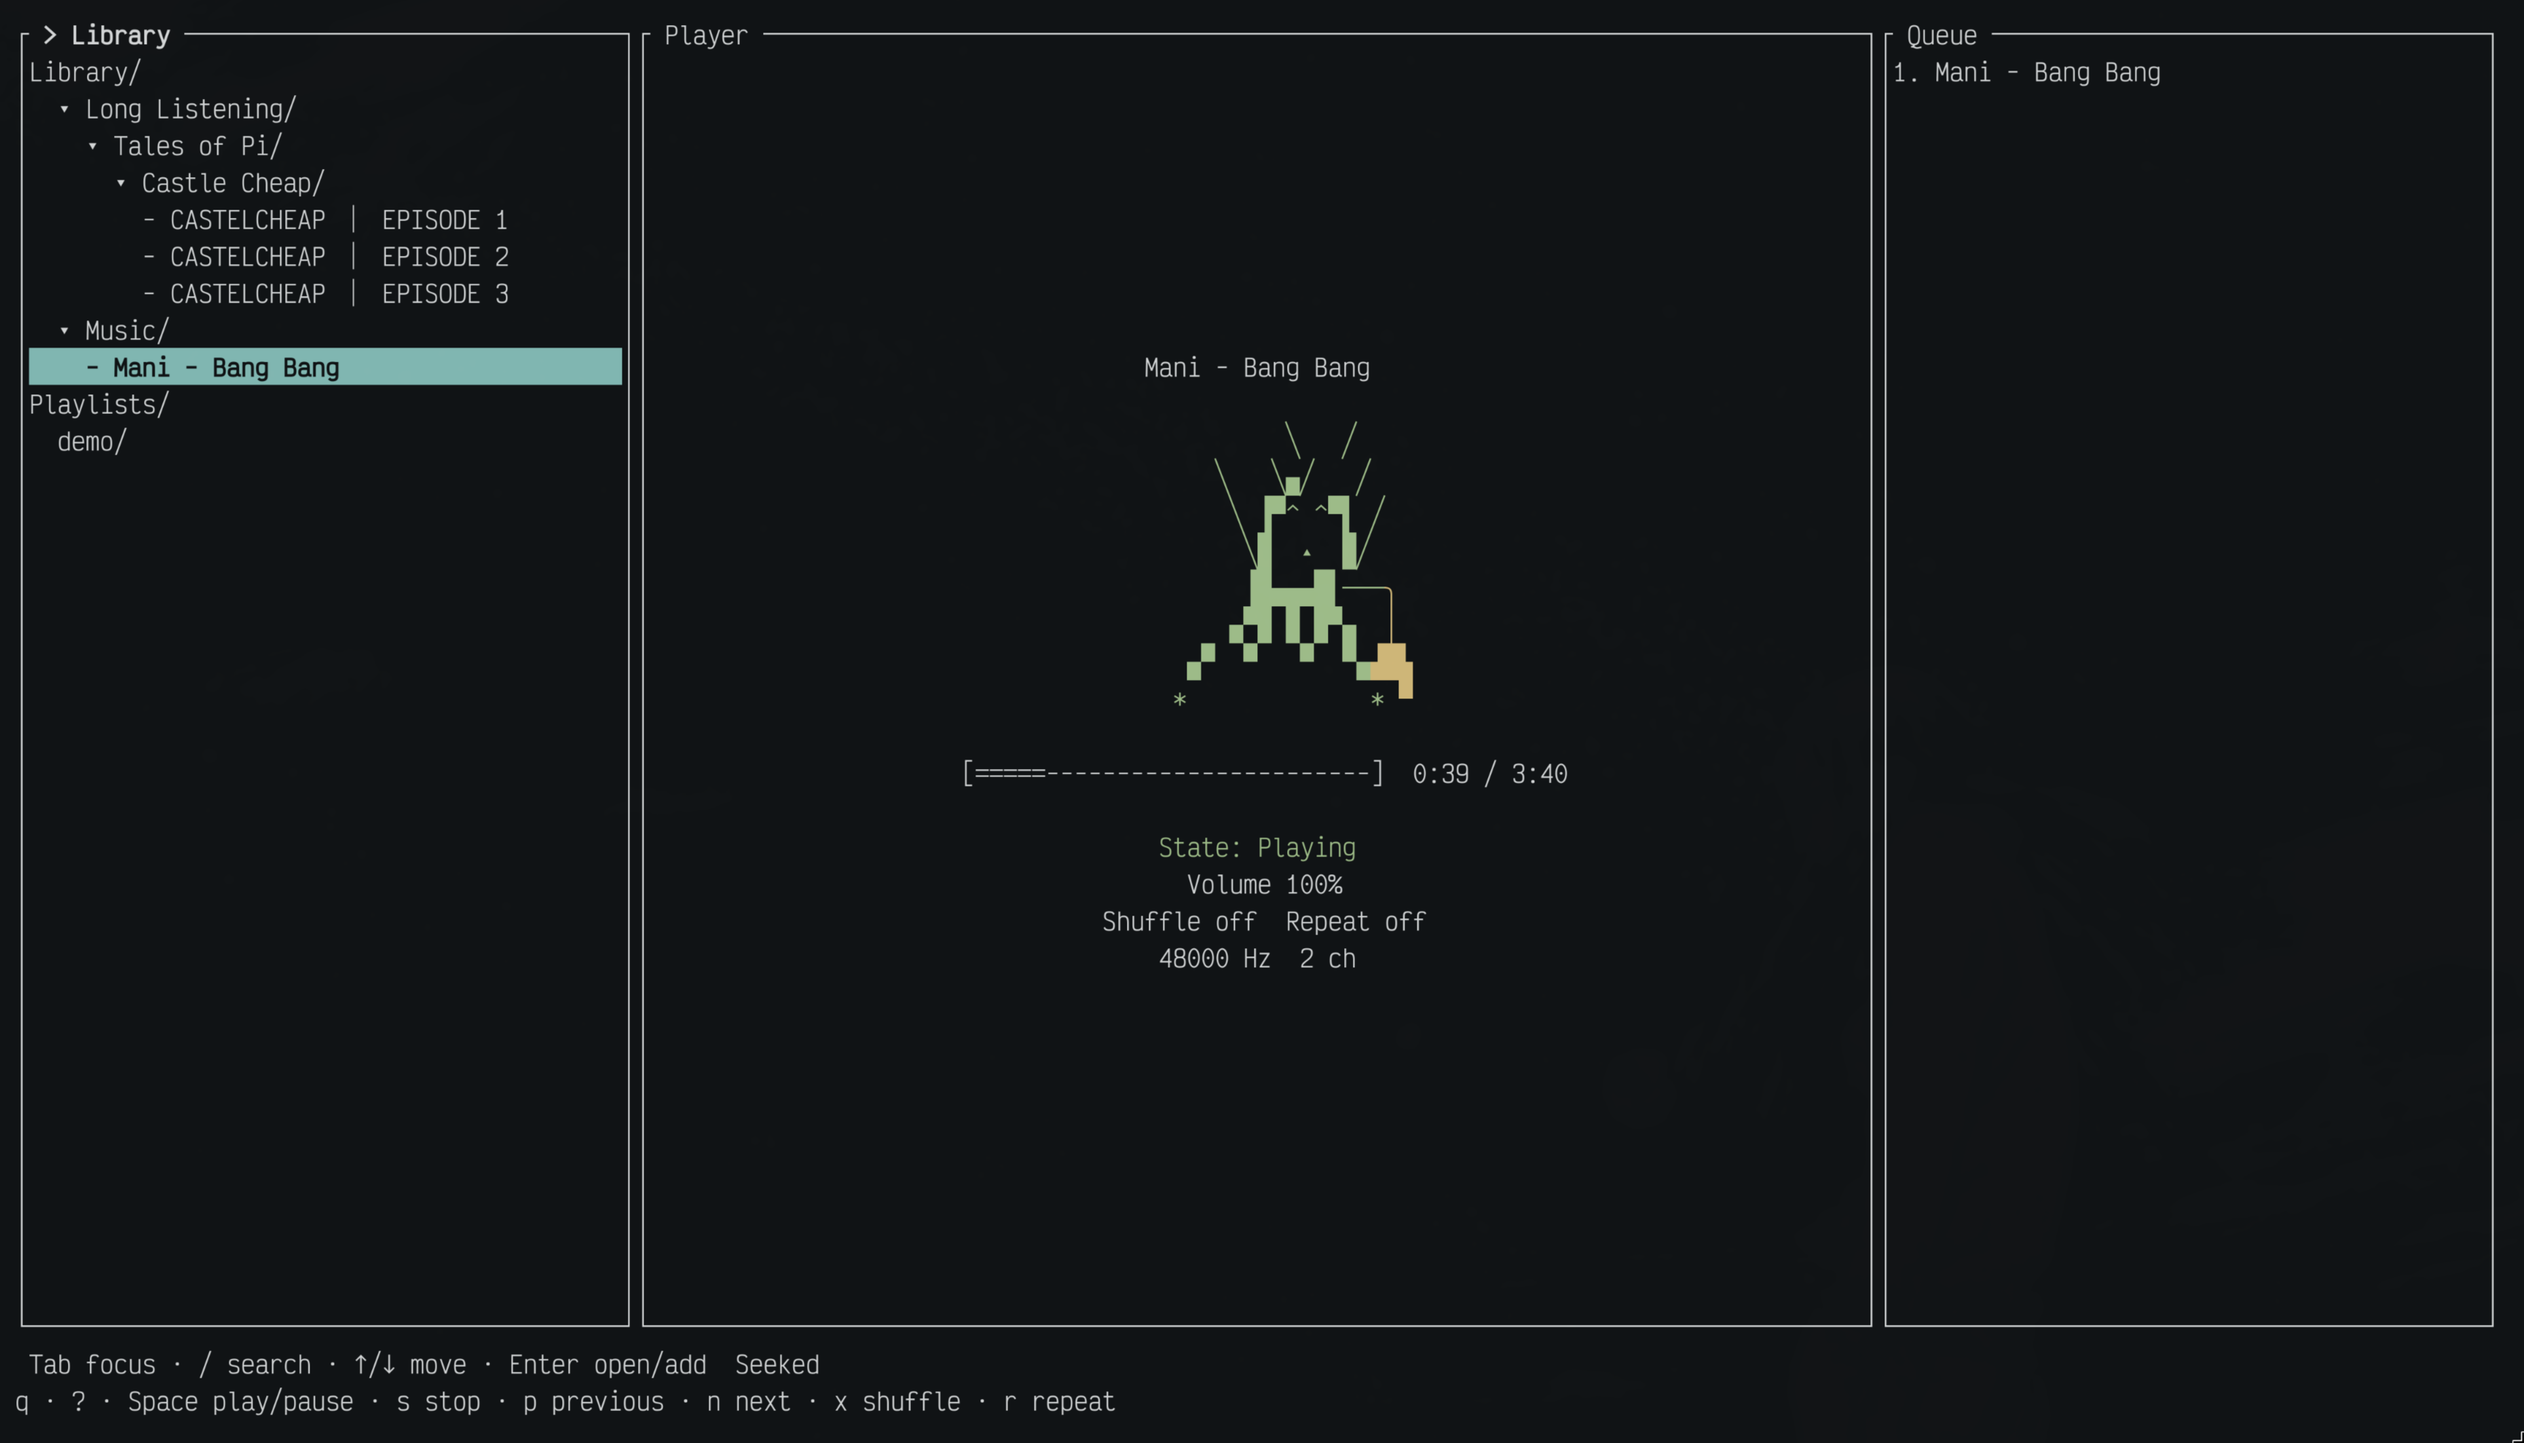
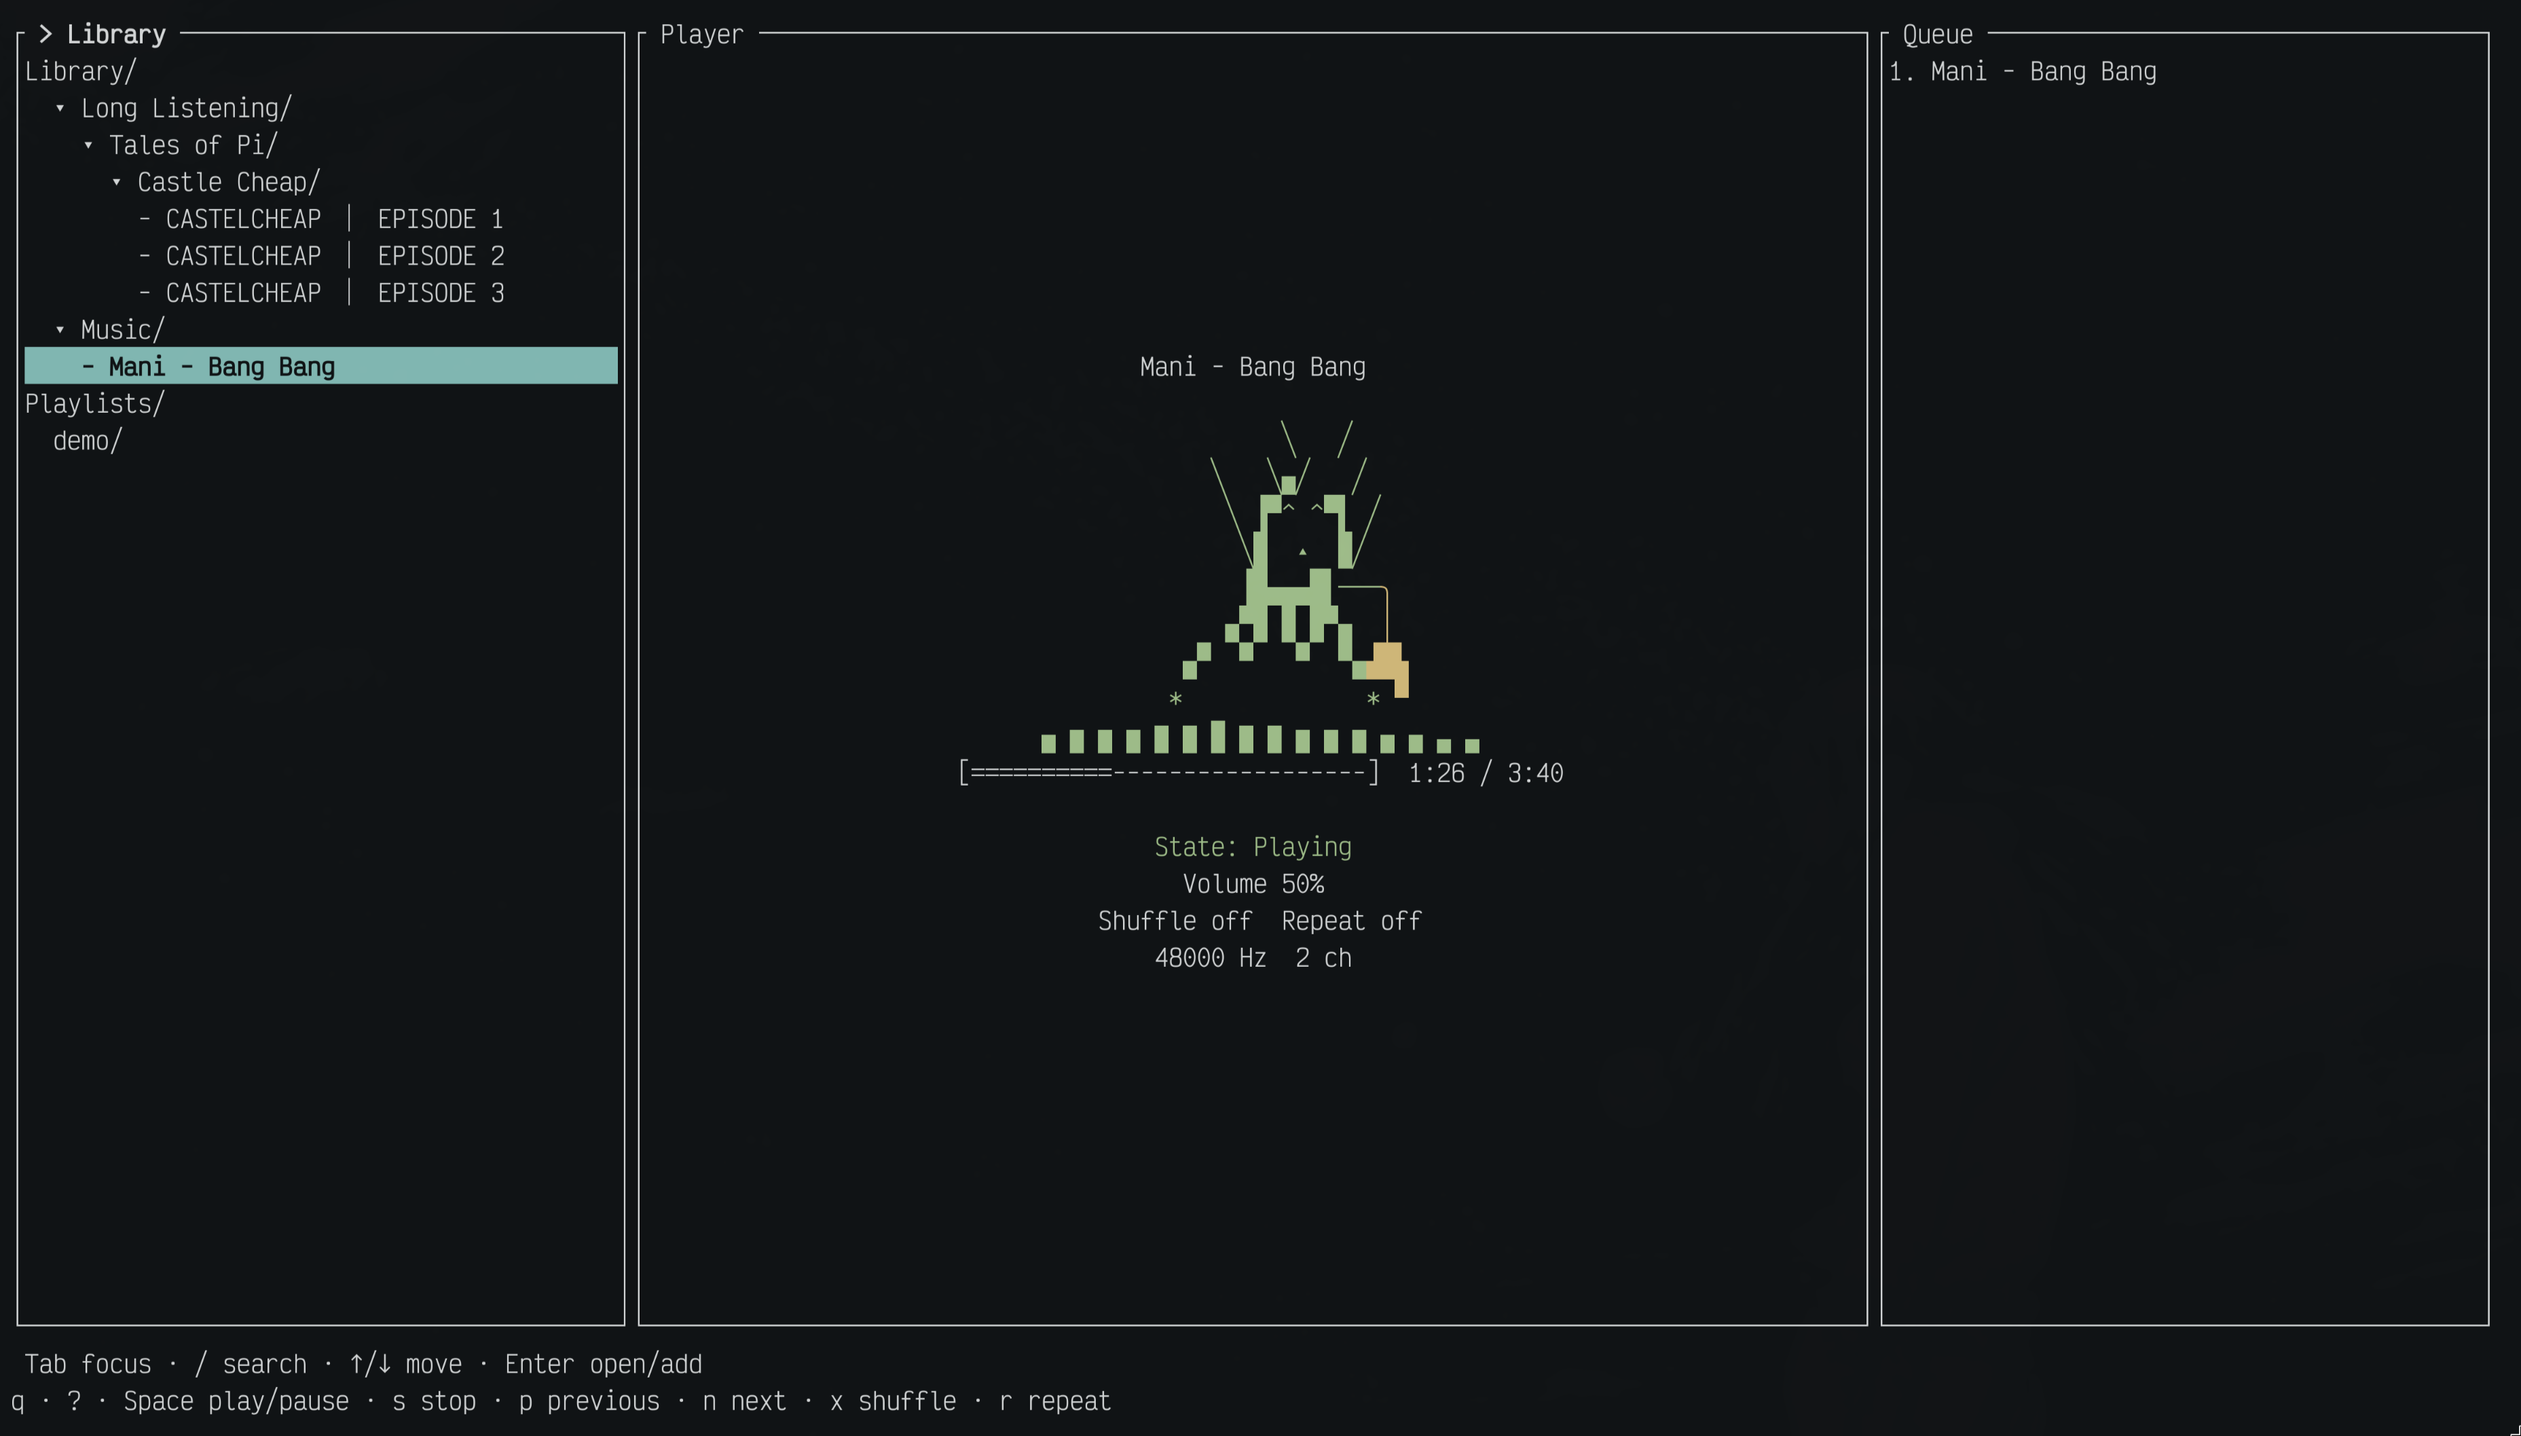
Update landing page for Suzumushi 1.0.1

diff --git a/src/data/site.ts b/src/data/site.ts
@@ -1,18 +1,18 @@
 export const SITE = {
   name: "Suzumushi",
-  version: "1.0.0",
+  version: "1.0.1",
   domain: "suzumushi.org",
   description: "A calm, fully local terminal audio player for Linux.",
   github: "https://github.com/nuggocto/suzumushi",
-  release: "https://github.com/nuggocto/suzumushi/releases/tag/v1.0.0",
+  release: "https://github.com/nuggocto/suzumushi/releases/tag/v1.0.1",
   aur: "https://aur.archlinux.org/packages/suzumushi-bin",
   license: "https://github.com/nuggocto/suzumushi/blob/shrek/LICENSE",
 } as const;
 
 export const RELEASE = {
-  archive: "suzumushi-v1.0.0-x86_64-unknown-linux-gnu.tar.xz",
-  baseUrl: "https://github.com/nuggocto/suzumushi/releases/download/v1.0.0",
[1 lines of base64/hex data omitted]
+  archive: "suzumushi-v1.0.1-x86_64-unknown-linux-gnu.tar.xz",
+  baseUrl: "https://github.com/nuggocto/suzumushi/releases/download/v1.0.1",
[1 lines of base64/hex data omitted]
 } as const;
 
 export const NAV = [
